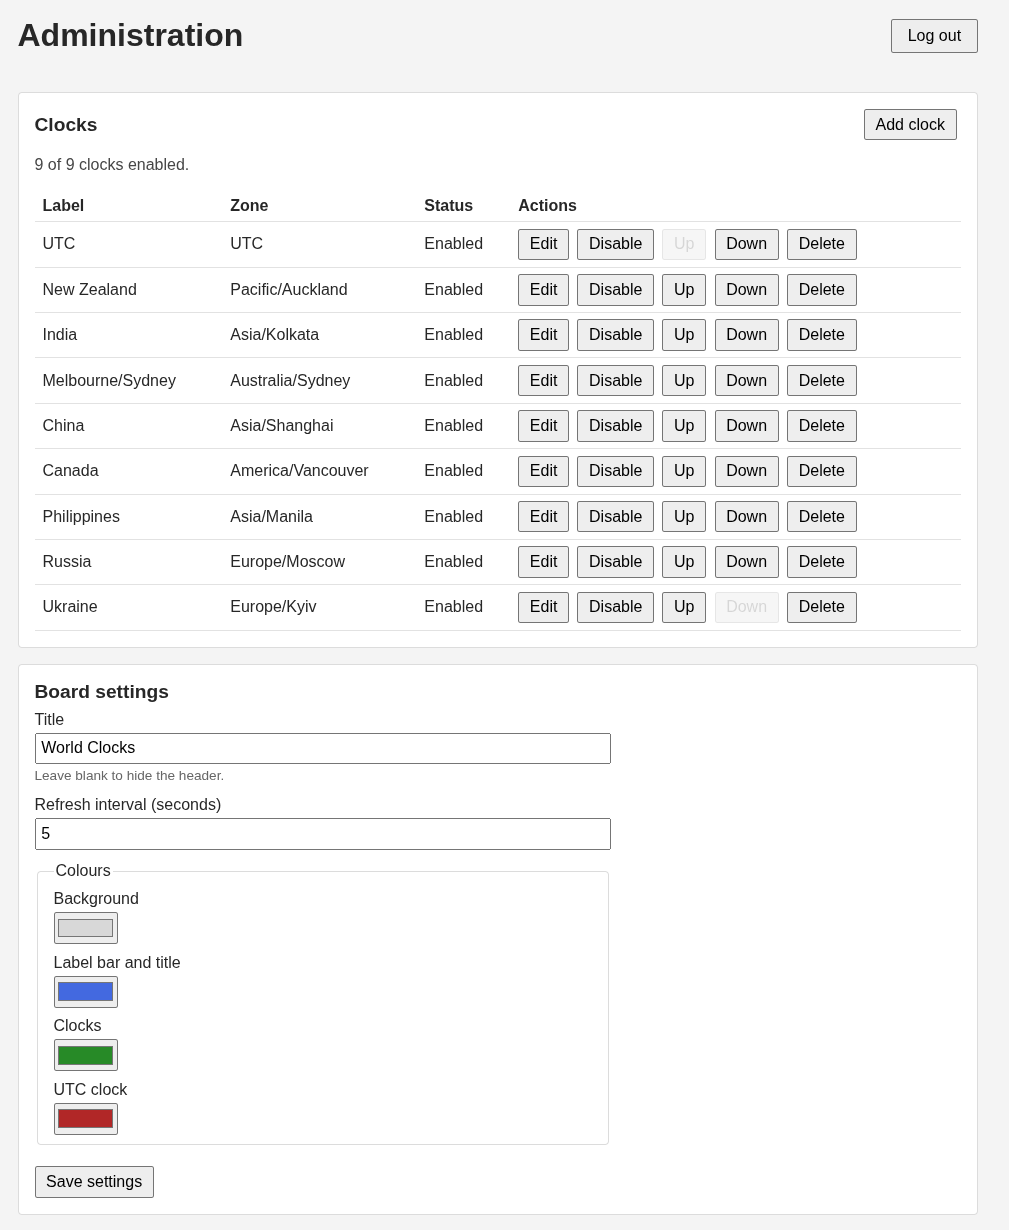
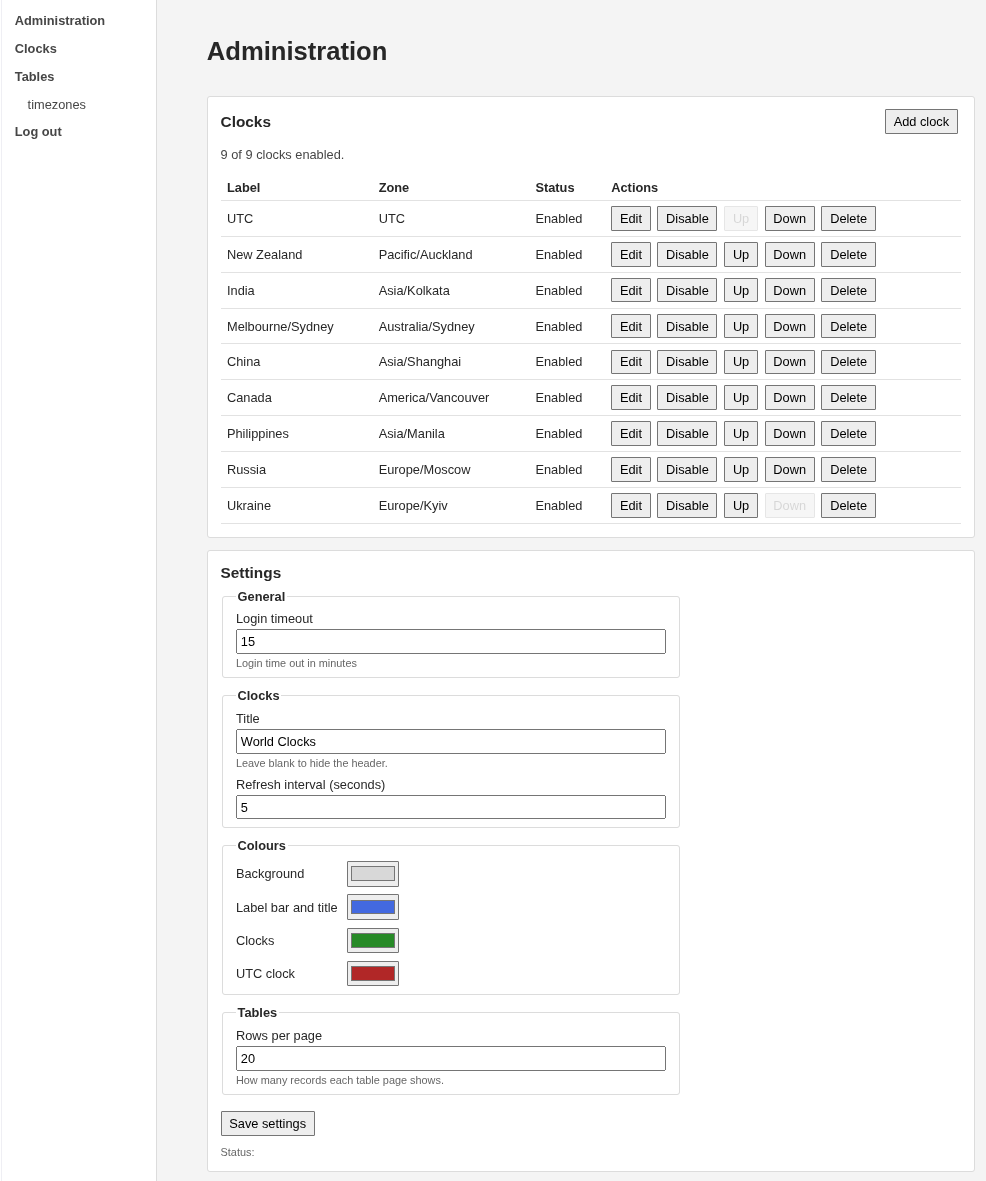
update README

diff --git a/README.md b/README.md
@@ -6,7 +6,8 @@ A Web application written in Go + HTMX + SQLite to mimic the functionality of th
 
 - A public clocks page showing up to nine world clocks in a 3×3 grid, in 24-hour `HH:MM` time. The UTC clock is red and the other clocks are green. The colours can be changed.
 - Live updates: the clocks page refreshes itself at a configurable interval, and shows a STALE indicator if an update fails.
-- An administration dashboard, protected by login, for managing the clocks (add, edit, enable or disable, reorder, delete) and the clock display settings (title, colours, refresh interval).
+- An administration dashboard, protected by login, for managing the clocks (add, edit, enable or disable, reorder, delete) and the settings (title, colours, refresh interval, table page size, login timeout).
+- A paginated, searchable administration table for the `timezones` records behind the clocks, with Edit and Delete per row.
 - Each clock's time zone is chosen from a list of IANA zones, so daylight saving is applied automatically.
 - Desktop mode: `serve --launch` opens the clocks page in a browser app-mode window, and `open <address>` opens a clocks page that is already running.
 - A single self-contained binary. Data is kept in one SQLite file, and building needs no C compiler.
@@ -18,11 +19,11 @@ A Web application written in Go + HTMX + SQLite to mimic the functionality of th
 
 #### Admin dashboard
 
-![World Clocks](docs/admin-dashboard.png)
+![Admin dashboard](docs/admin-dashboard.png)
 
 ## Installation
 
-The application is a single executable binary file (less than 15MB) containing the application, application resources, a web server and the SQLite database engine. The only other file is the database file which is created when the application is first executed. There are no other dependencies.
+The application is a single executable binary file (about 14MB) containing the application, application resources, a web server and the SQLite database engine. There are no other dependencies. On first run `serve` creates the SQLite database (`./noticeboard.db`) and the audit log (`./noticeboard.log`); both paths can be changed with `serve` options.
 
 See [Development](#development) if you prefer building from source instead of using prebuilt binaries.
 
@@ -42,7 +43,7 @@ Download `noticeboard-<release_tag>-windows-amd64.exe` executable from the [Gith
 ./noticeboard admin init <username>
 ```
 
-The username must be one or more printable characters with no spaces. The password is requested twice. It is not echoed, and it is never taken from the command line. Running `admin init` replaces the exiting account and ends all existing logins.
+The username must be one or more printable characters with no spaces. The password is requested twice. It is not echoed, and it is never taken from the command line. Running `admin init` replaces the existing account and ends all existing logins.
 
 ### Start the server
 
@@ -72,7 +73,7 @@ To open a clocks page that is already running, for example on another host machi
 ```
 
 > [!NOTE]
-> Specify the `0.0.0.0` "any" address to allow other machines on the network to access the server.
+> Use the `0.0.0.0` "any" address to allow other machines on the network to access the server, for example `./noticeboard serve --addr 0.0.0.0:8080`.
 
 ## CLI
 
@@ -110,7 +111,8 @@ See [_Routes_ in the design specification](./docs/DESIGN.md#5-routes).
 
 - [mise](https://mise.jdx.dev/), which installs the Go version pinned in `mise.toml`. Alternatively, install Go 1.26.6 yourself.
 - A host clock kept accurate, for example with NTP. The clocks page shows the host's time.
-- Optional: Chrome or Chromium, for the browser tests. Without it those tests skip; `go test -short ./...` skips them too.
+- Optional: Chrome or Chromium, for the browser tests. Without it those tests skip, as they do with `go test -short ./...`.
+- Optional: the [GitHub CLI](https://cli.github.com/) (`gh`), for `mise run release`.
 
 ### Build
 
@@ -119,7 +121,7 @@ mise install
 mise run build
 ```
 
-This produces the `noticeboard` executable. Without mise, run:
+This produces the `noticeboard` executable. The templates, static files and database migrations are embedded in it, so rebuild after changing them. Without mise, run:
 
 ```sh
 CGO_ENABLED=0 go build -o noticeboard .
@@ -129,11 +131,16 @@ For another platform, set `GOOS` and `GOARCH`, for example `GOOS=windows GOARCH=
 
 ### mise development tasks
 
-- `mise run test` runs the tests.
+Run `mise tasks` to list them.
+
+- `mise run build` builds the `./noticeboard` development binary without CGO. It first runs `tidy` and `test`.
+- `mise run test` runs `go vet ./...` and then `go test ./...`, which includes the browser tests. They skip when Chrome or Chromium is not installed.
+- `mise run test-short` runs `go vet ./...` and then `go test -short ./...`, which skips the browser tests and takes a few seconds.
+- `mise run test-browser` runs only the browser tests (`go test ./internal/web -run InBrowser -count=1 -v`), which drive headless Chrome with `chromedp`.
 - `mise run fmt` formats the Go source.
 - `mise run tidy` verifies and tidies the Go modules.
-- `mise run clean` tidies the modules and removes the built executable.
-- `mise run release -- <version>` builds the Linux and Windows binaries and publishes a GitHub release for the existing local tag `<version>` (requires the `gh` CLI).
+- `mise run dist <version>` builds the Linux and Windows (amd64) binaries and their checksum file into `dist/`. The working directory must be clean and the local tag `<version>` must point at `HEAD`; an existing build of the same version is not overwritten.
+- `mise run release <version>` publishes the artifacts already built by `dist` for the local tag `<version>` as a draft GitHub release, after verifying their checksums. It pushes the tag and requires the `gh` CLI.
 
 ## Security
 
